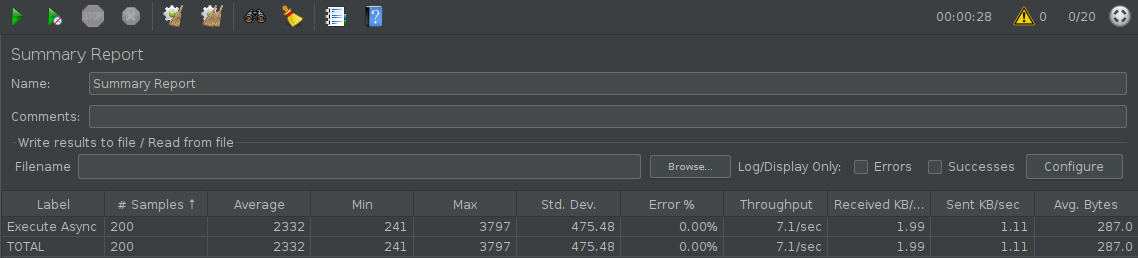
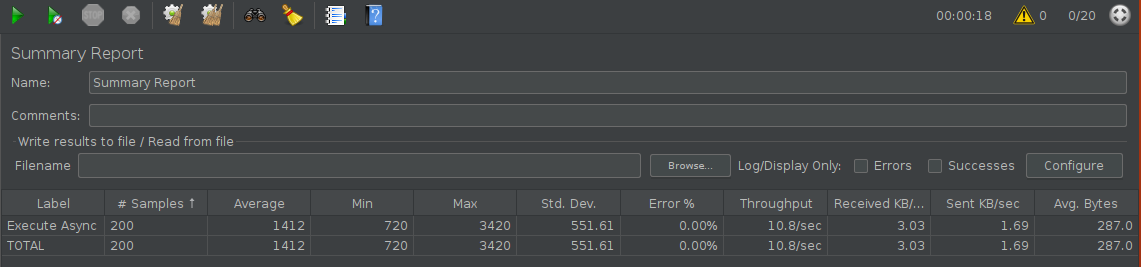
Impl

diff --git a/noncoroutineapp/src/main/kotlin/lab/kotlin/coroutine/benchmark/noncoroutineapp/noncoroutineapp/service/ExternalService.kt b/noncoroutineapp/src/main/kotlin/lab/kotlin/coroutine/benchmark/noncoroutineapp/noncoroutineapp/service/ExternalService.kt
@@ -34,19 +34,19 @@ class ExternalService {
             restTemplate.getForObject(externalServiceUrl, ResultC::class.java)!!
 
 
-    @Async
+    @Async("asyncExecutor")
     fun callAAsync(): CompletableFuture<ResultA> {
         val result = restTemplate.getForObject(externalServiceUrl, ResultA::class.java)!!
         return CompletableFuture.completedFuture(result)
     }
 
-    @Async
+    @Async("asyncExecutor")
     fun callBAsync(): CompletableFuture<ResultB> {
         val result = restTemplate.getForObject(externalServiceUrl, ResultB::class.java)!!
         return CompletableFuture.completedFuture(result)
     }
 
-    @Async
+    @Async("asyncExecutor")
     fun callCAsync(): CompletableFuture<ResultC> {
         val result = restTemplate.getForObject(externalServiceUrl, ResultC::class.java)!!
         return CompletableFuture.completedFuture(result)

diff --git a/README.md b/README.md
@@ -70,10 +70,15 @@ My machine is a intel core i7 8th and 4 cores with 16mb of RAM.
 | Coroutine 64MB of memory                | 17.2/sec   | 12 secs |
 | Coroutine 128MB of memory               | 15.9/sec   | 12 secs |
 | NonCoroutine 128MB of memory            | 15.0/sec   | 13 secs |
+| NonCoroutine 128MB of memory - parallel | 10.8/sec   | 18 secs |
 | NonCoroutine 64MB of memory             |  8.1/sec   | 25 secs |
-| NonCoroutine 128MB of memory - parallel |  7.1/sec   | 28 secs |
-| NonCoroutine 64MB of memory - parallel  |  5.6/sec   | 35 secs |
+| NonCoroutine 64MB of memory - parallel  |  7.7/sec   | 26 secs |
 
+| Time to complete | 18 seconds |
+| Thoughtput       | 10.8/sec   |
+
+]| Time to complete | 26 seconds |
+| Thoughtput       | 7.7/sec     |
 
 
 ### NonCoroutine 128MB of memory
@@ -97,8 +102,8 @@ My machine is a intel core i7 8th and 4 cores with 16mb of RAM.
 
 | Meter            | Value      |
 |------------------|------------|
-| Time to complete | 28 seconds |
-| Thoughtput       | 7.1/sec     |
+| Time to complete | 18 seconds |
+| Thoughtput       | 10.8/sec   |
 
 
 #### JVM Monitor
@@ -167,8 +172,8 @@ My machine is a intel core i7 8th and 4 cores with 16mb of RAM.
 
 | Meter            | Value      |
 |------------------|------------|
-| Time to complete | 35 seconds |
-| Thoughtput       | 5.6/sec     |
+| Time to complete | 26 seconds |
+| Thoughtput       | 7.7/sec     |
 
 
 #### JVM Monitor
